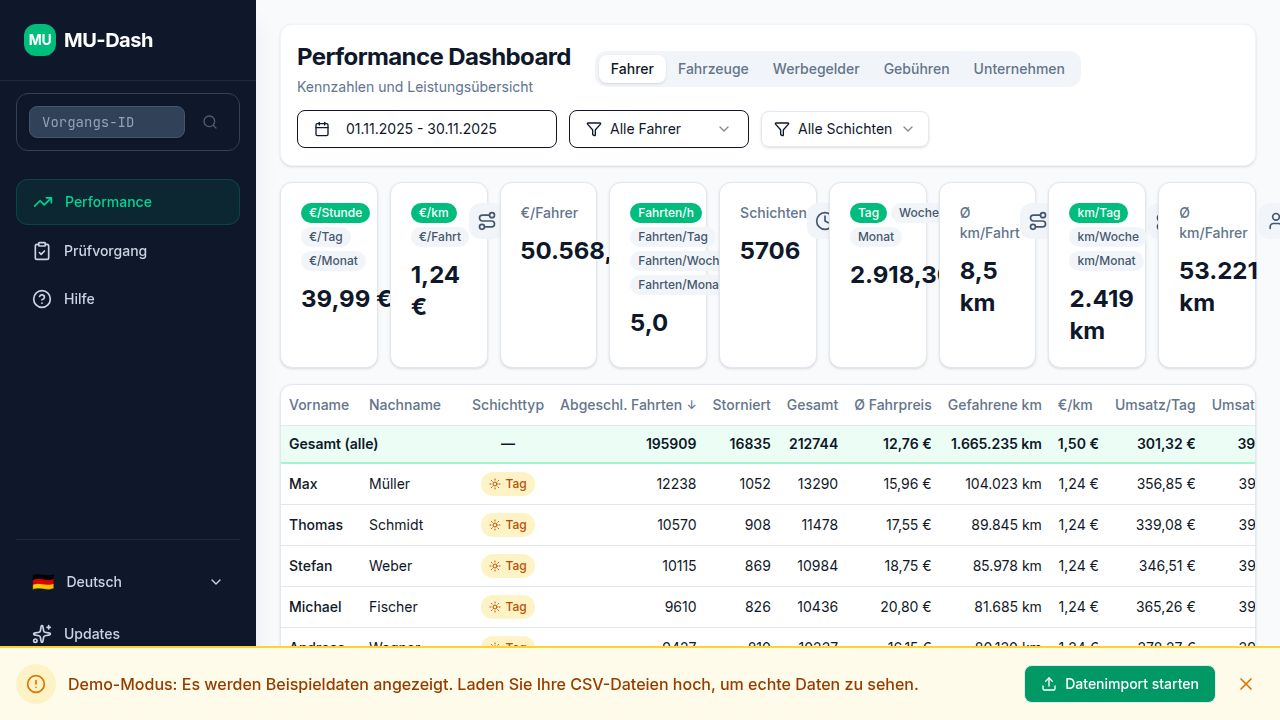
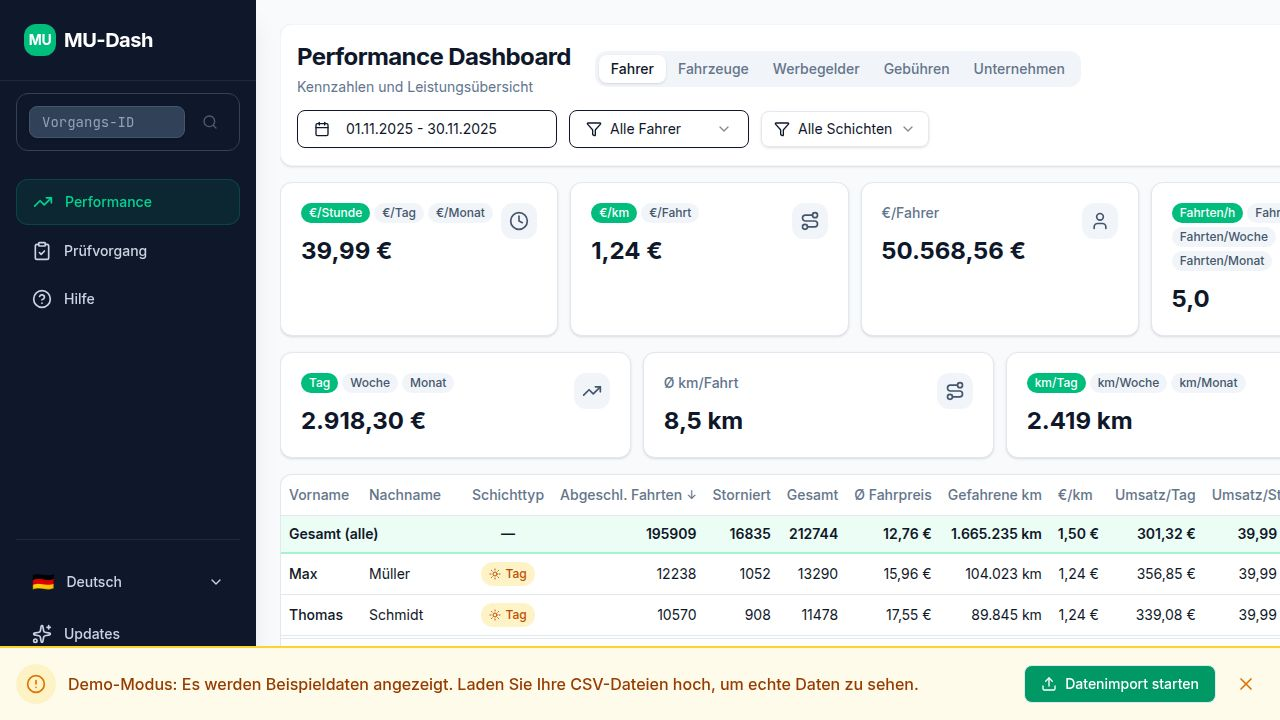
Adjust layout to enable scrolling on specific pages
Add a `fullHeight` prop to `DashboardLayout` and conditionally apply styles to manage page scrolling behavior, enabling full-screen height for the performance page while allowing normal scrolling for others.

Replit-Commit-Author: Agent
Replit-Commit-Session-Id: eda07c47-fa0f-4dfd-ad98-edfbeb6350f6
Replit-Commit-Checkpoint-Type: full_checkpoint
Replit-Commit-Event-Id: 900e6edd-e22e-41a4-afe9-51e50c98dbc7
Replit-Commit-Screenshot-Url: https://storage.googleapis.com/screenshot-production-us-central1/74f01f64-59c9-4fe7-973c-309debf47daa/eda07c47-fa0f-4dfd-ad98-edfbeb6350f6/uVCGHTJ
Replit-Helium-Checkpoint-Created: true

diff --git a/client/src/components/layout.tsx b/client/src/components/layout.tsx
@@ -17,9 +17,10 @@ import {
 
 interface DashboardLayoutProps {
   children: React.ReactNode;
+  fullHeight?: boolean;
 }
 
-export function DashboardLayout({ children }: DashboardLayoutProps) {
+export function DashboardLayout({ children, fullHeight = false }: DashboardLayoutProps) {
   const [sidebarOpen, setSidebarOpen] = React.useState(true);
   const [location, setLocation] = useLocation();
   const { t, language, setLanguage, languages } = useTranslation();
@@ -79,7 +80,10 @@ export function DashboardLayout({ children }: DashboardLayoutProps) {
   };
 
   return (
-    <div className="h-screen bg-slate-50 flex font-sans text-slate-900 overflow-hidden">
+    <div className={cn(
+      "bg-slate-50 flex font-sans text-slate-900",
+      fullHeight ? "h-screen overflow-hidden" : "min-h-screen"
+    )}>
       <aside 
         className={cn(
           "fixed inset-y-0 left-0 z-50 w-64 bg-slate-900 text-slate-300 transition-transform duration-300 ease-in-out lg:translate-x-0 lg:block shadow-xl",
@@ -236,7 +240,10 @@ export function DashboardLayout({ children }: DashboardLayoutProps) {
            <div className="w-10" />
         </header>
 
-        <main className="flex-1 overflow-hidden p-2 md:p-4 lg:p-6 flex flex-col">
+        <main className={cn(
+          "flex-1 p-2 md:p-4 lg:p-6",
+          fullHeight ? "overflow-hidden flex flex-col" : "overflow-auto"
+        )}>
           {children}
         </main>
       </div>

diff --git a/client/src/pages/performance.tsx b/client/src/pages/performance.tsx
@@ -2649,7 +2649,7 @@ export default function PerformancePage() {
   }, [isDemo, dateRangeData, t, language]);
 
   return (
-    <DashboardLayout>
+    <DashboardLayout fullHeight>
       <Tabs value={activeTab} onValueChange={setActiveTab} className="max-w-[1920px] mx-auto flex flex-col flex-1 overflow-hidden gap-4">
         <div className="bg-white p-4 rounded-xl border border-slate-100 shadow-sm space-y-3 flex-shrink-0">
           <div className="flex flex-col lg:flex-row justify-between items-start lg:items-center gap-4">
